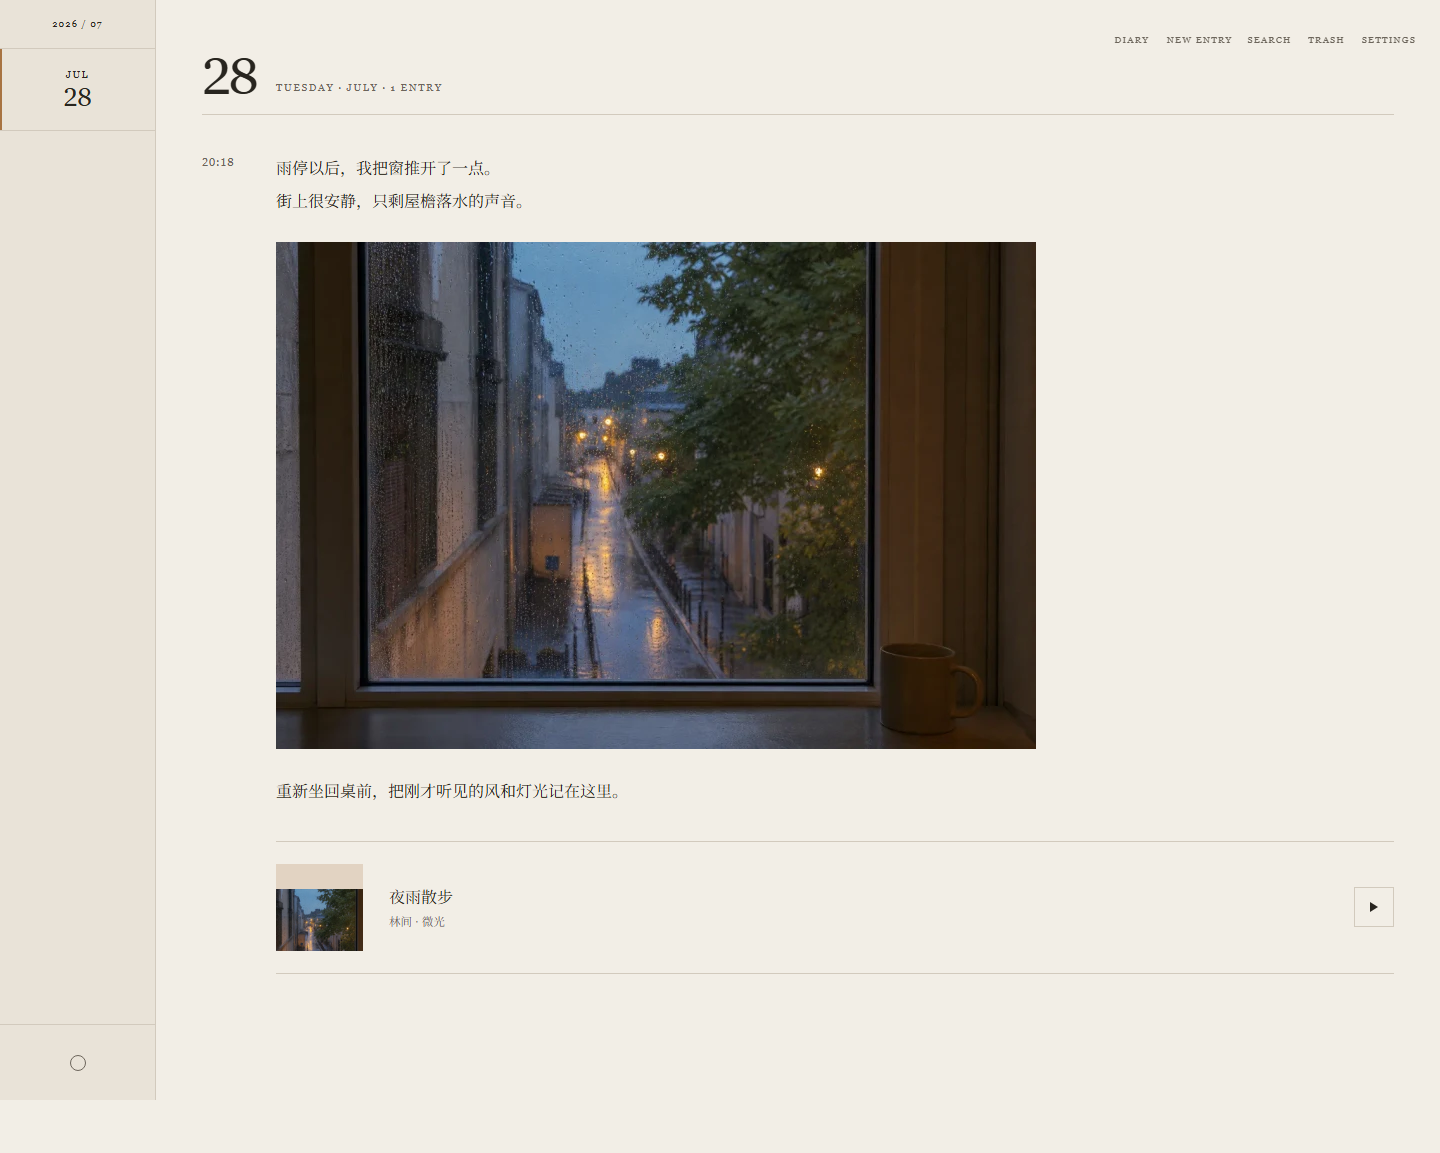
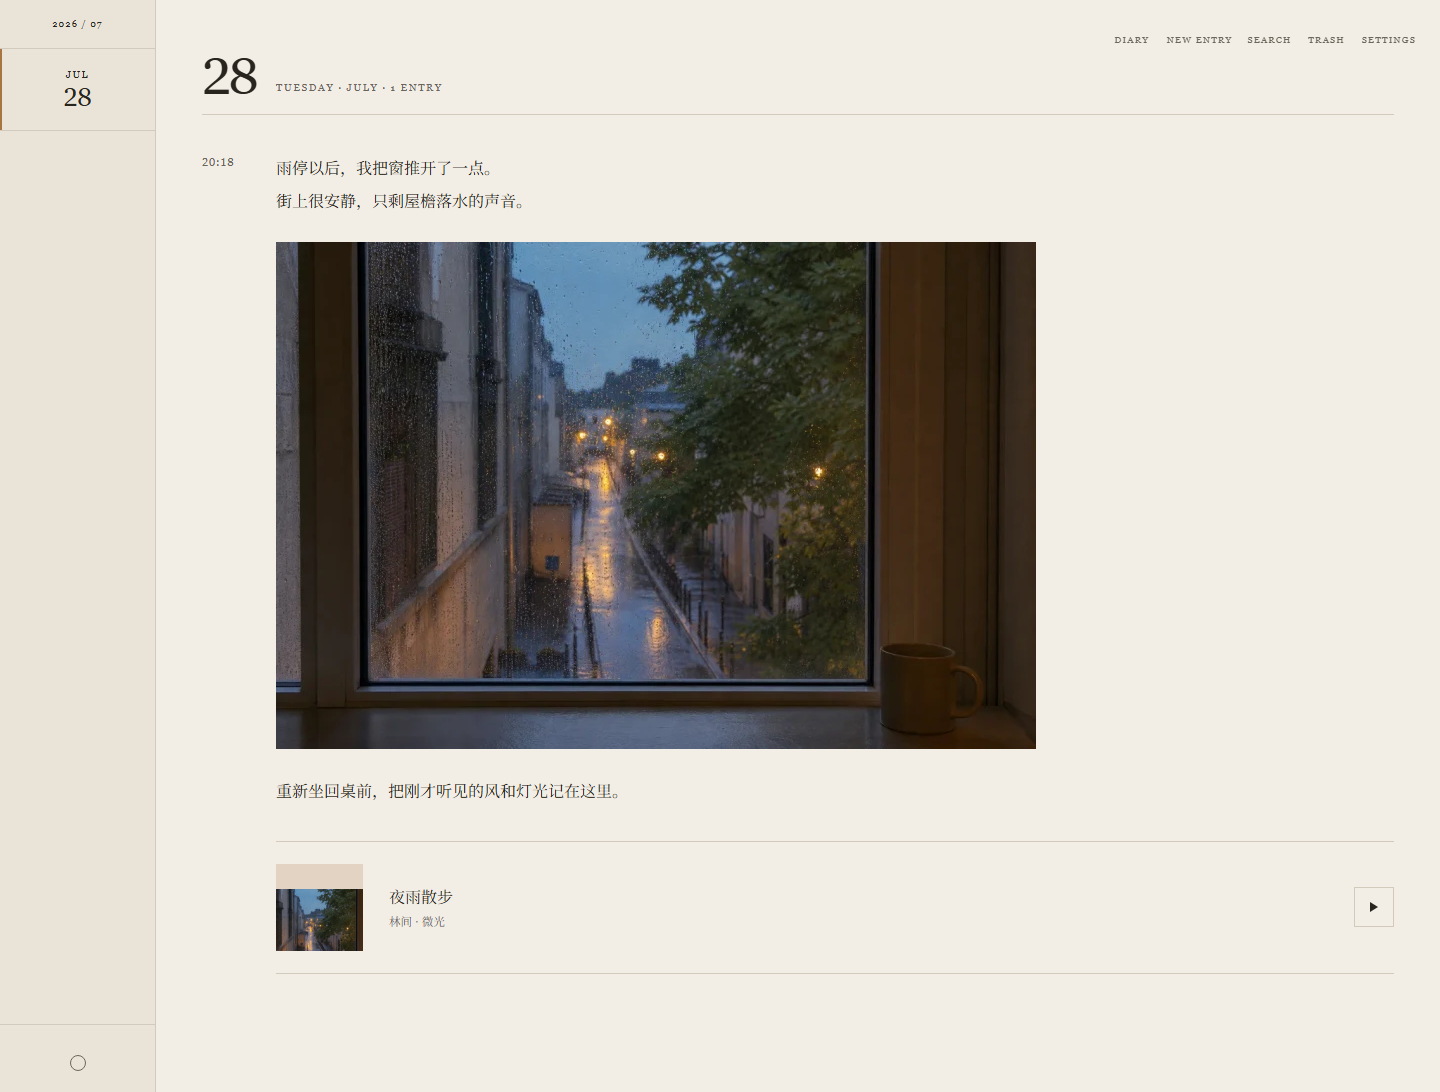
docs: update README images

diff --git a/README.md b/README.md
@@ -17,7 +17,6 @@
 - 同一天可发布多条记录，按北京时间精确到分钟。
 - 标题仅用于编辑、搜索和索引，不会出现在阅读正文首行。
 - Markdown 正文编辑与预览。
-- 在源码编辑和渲染预览之间切换时，会保留当前阅读进度，不会跳回顶部。
 - 一条日记可插入多张图片，原图会保留，同时生成阅读图与缩略图。
 - 一条日记可附加一首 MP3，支持本地持续播放和浮动播放器。
 - 自动读取 MP3 内嵌的歌名、歌手、专辑、年份和封面。
@@ -25,7 +24,6 @@
 - 标题、正文、标签、歌名、歌手和专辑统一搜索。
 - 浅色、深色和跟随系统三种主题状态，按钮循环切换。
 - 已发布日记可以修改，但原始发布时间不会改变。
-- 编辑保存后会返回连续时间线，并重新定位到刚刚修改的记录。
 - 删除的日记进入回收站，30 天内可以恢复。
 - 每日增量备份，保留最近 30 个逻辑快照。
 - 支持完整归档导出、完整归档恢复和便携 Markdown 导出。
